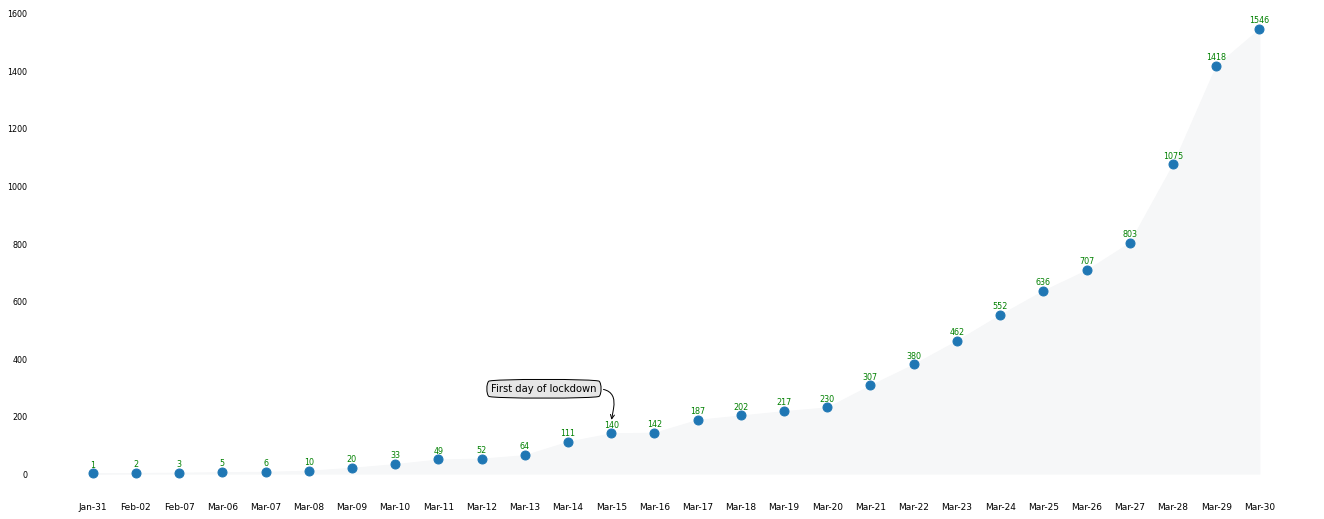
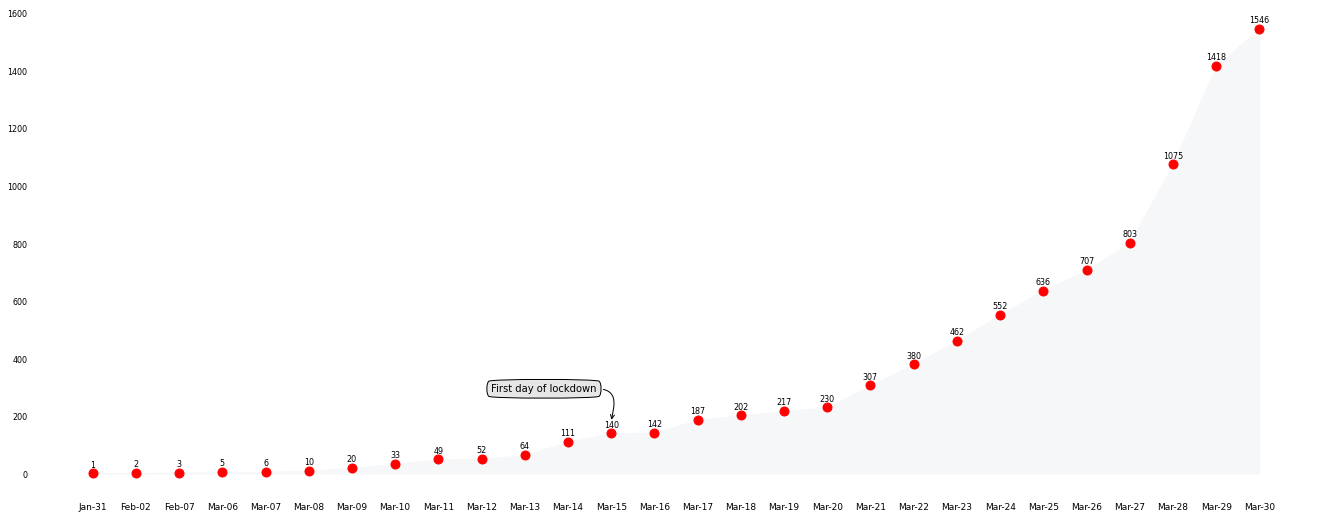
blue to red and glyp issues

diff --git a/index.html b/index.html
@@ -2,6 +2,10 @@
 <head>
 <meta name="viewport" content="width=device-width, initial-scale=1"> 
 <link href="http://maxcdn.bootstrapcdn.com/font-awesome/4.1.0/css/font-awesome.min.css" rel="stylesheet">
+<link href="//netdna.bootstrapcdn.com/bootstrap/3.0.0/css/bootstrap.min.css" rel="stylesheet">
+<link href="//netdna.bootstrapcdn.com/bootstrap/3.0.0/css/bootstrap-glyphicons.css" rel="stylesheet">
+<script src="//netdna.bootstrapcdn.com/bootstrap/3.0.0/js/bootstrap.min.js"></script>
+
 <style> 
 body {
     background: #555;
